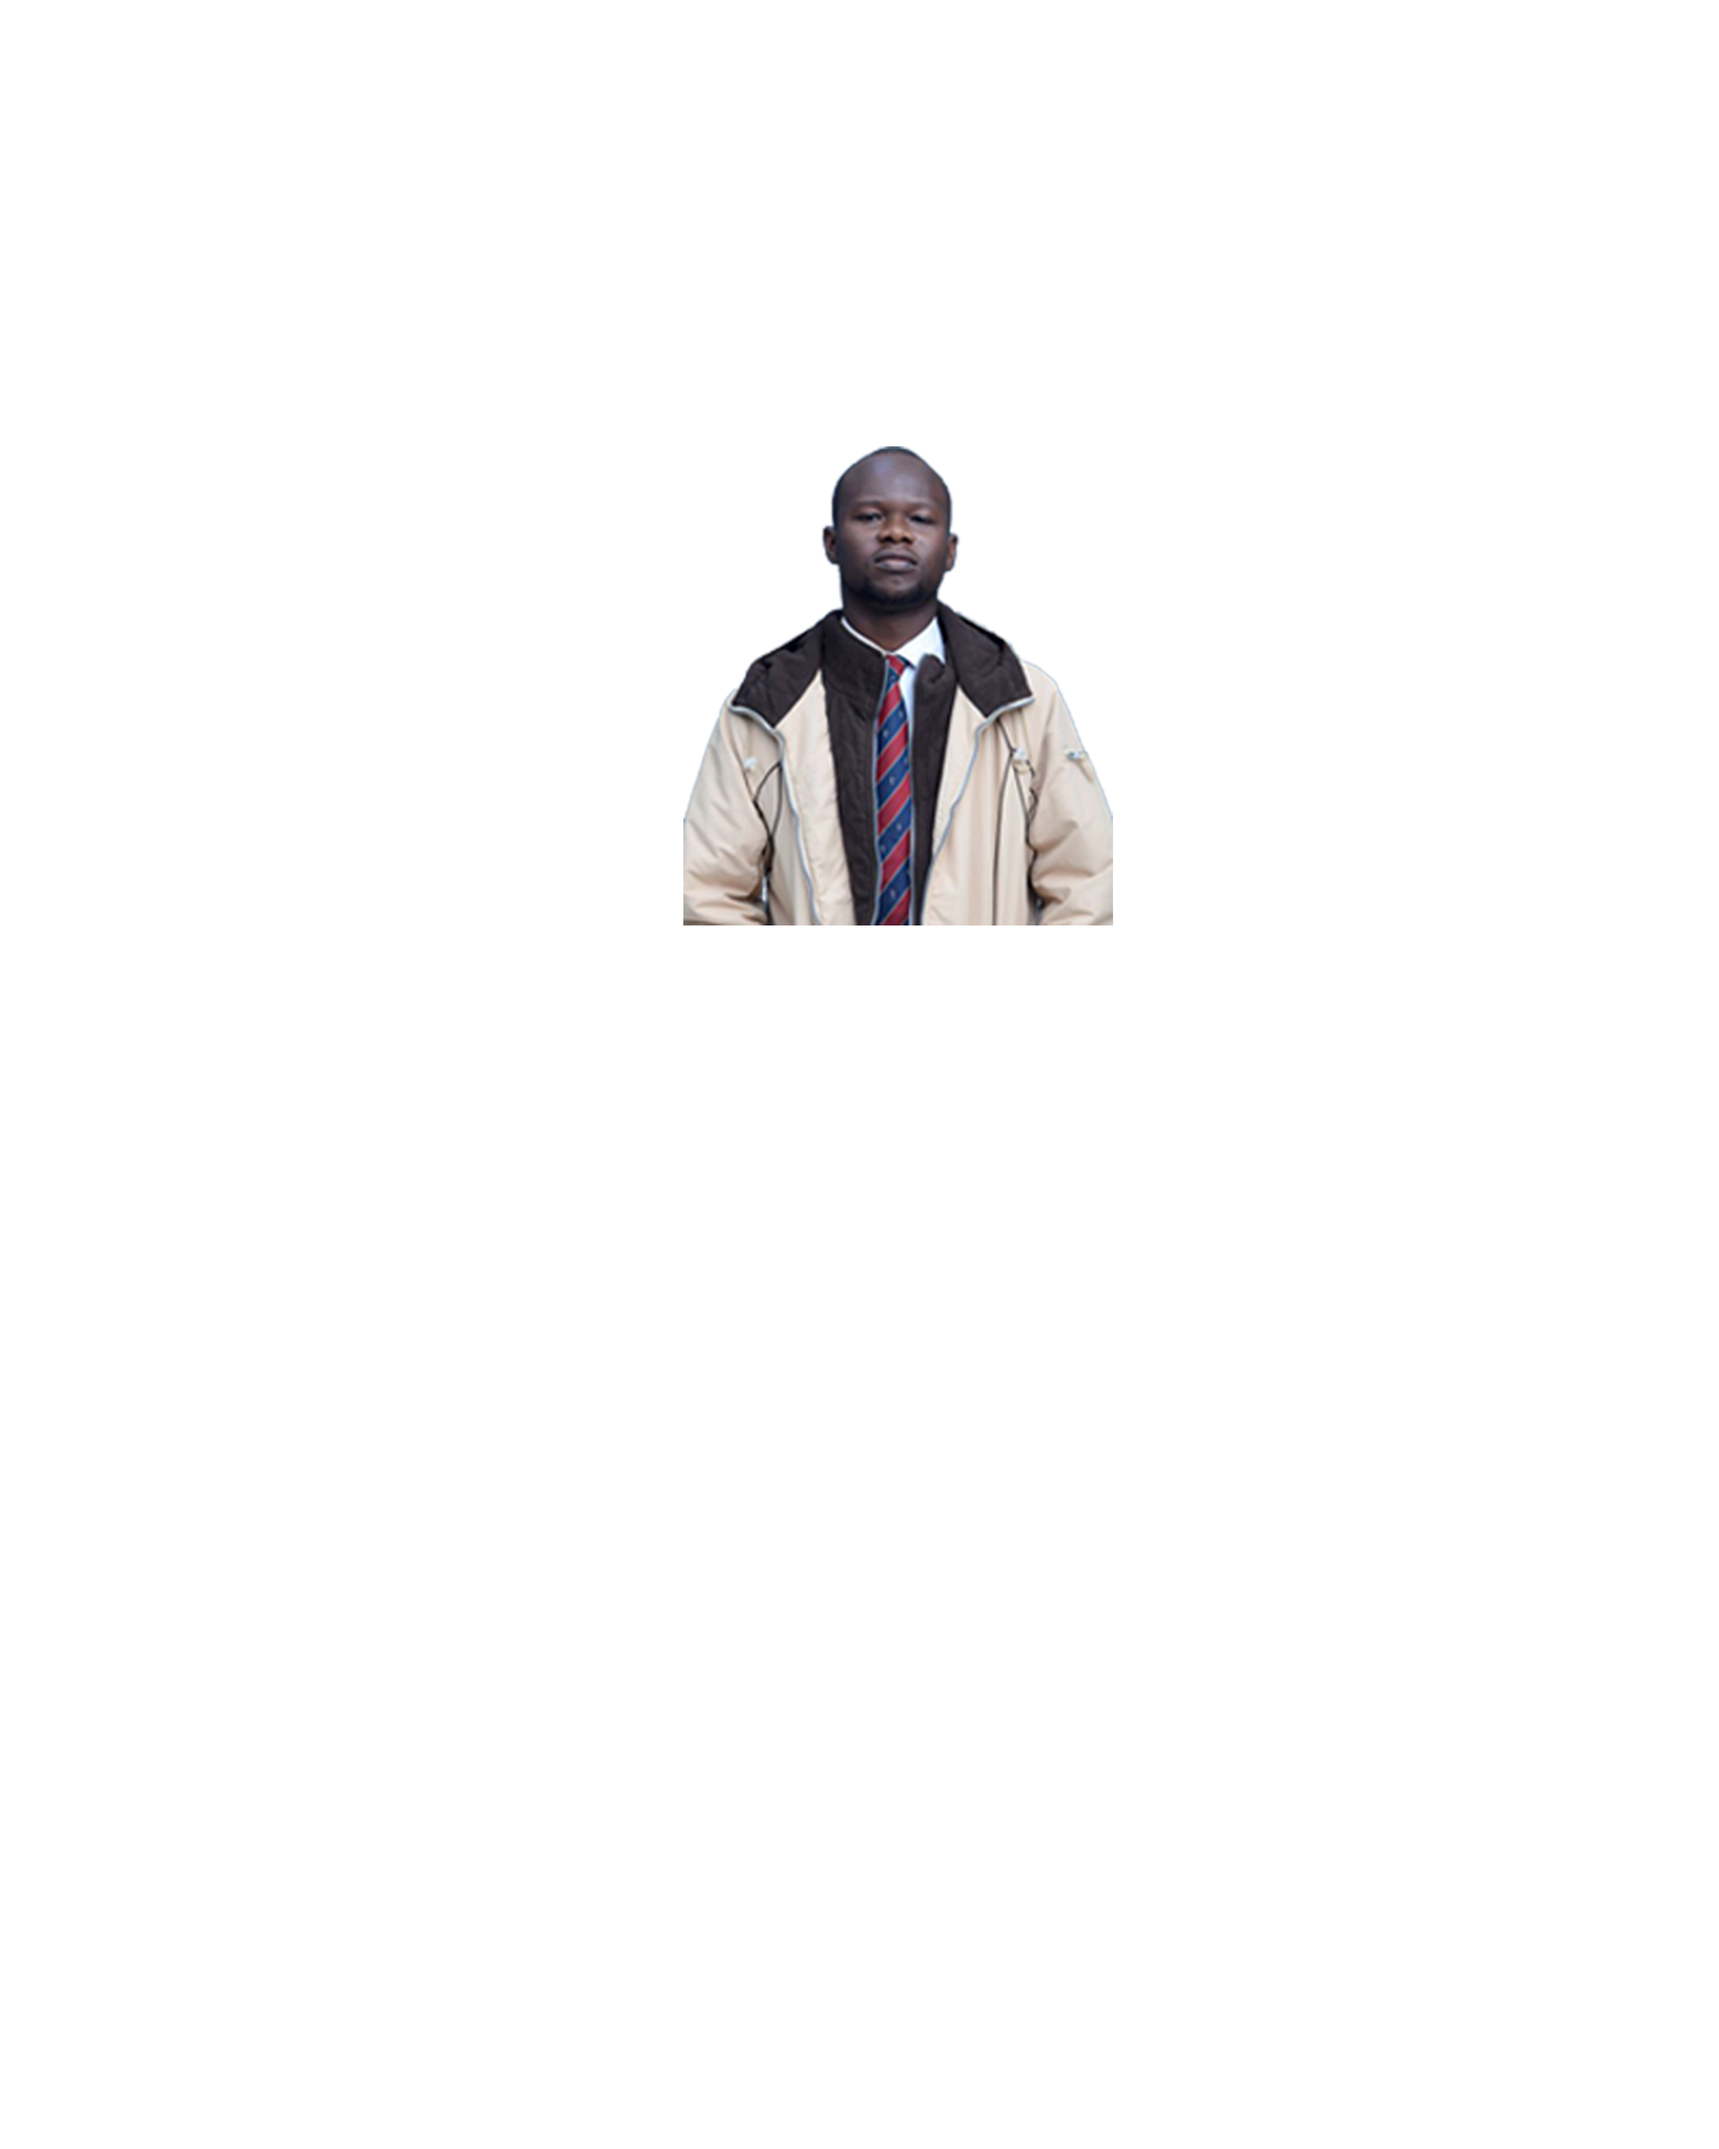
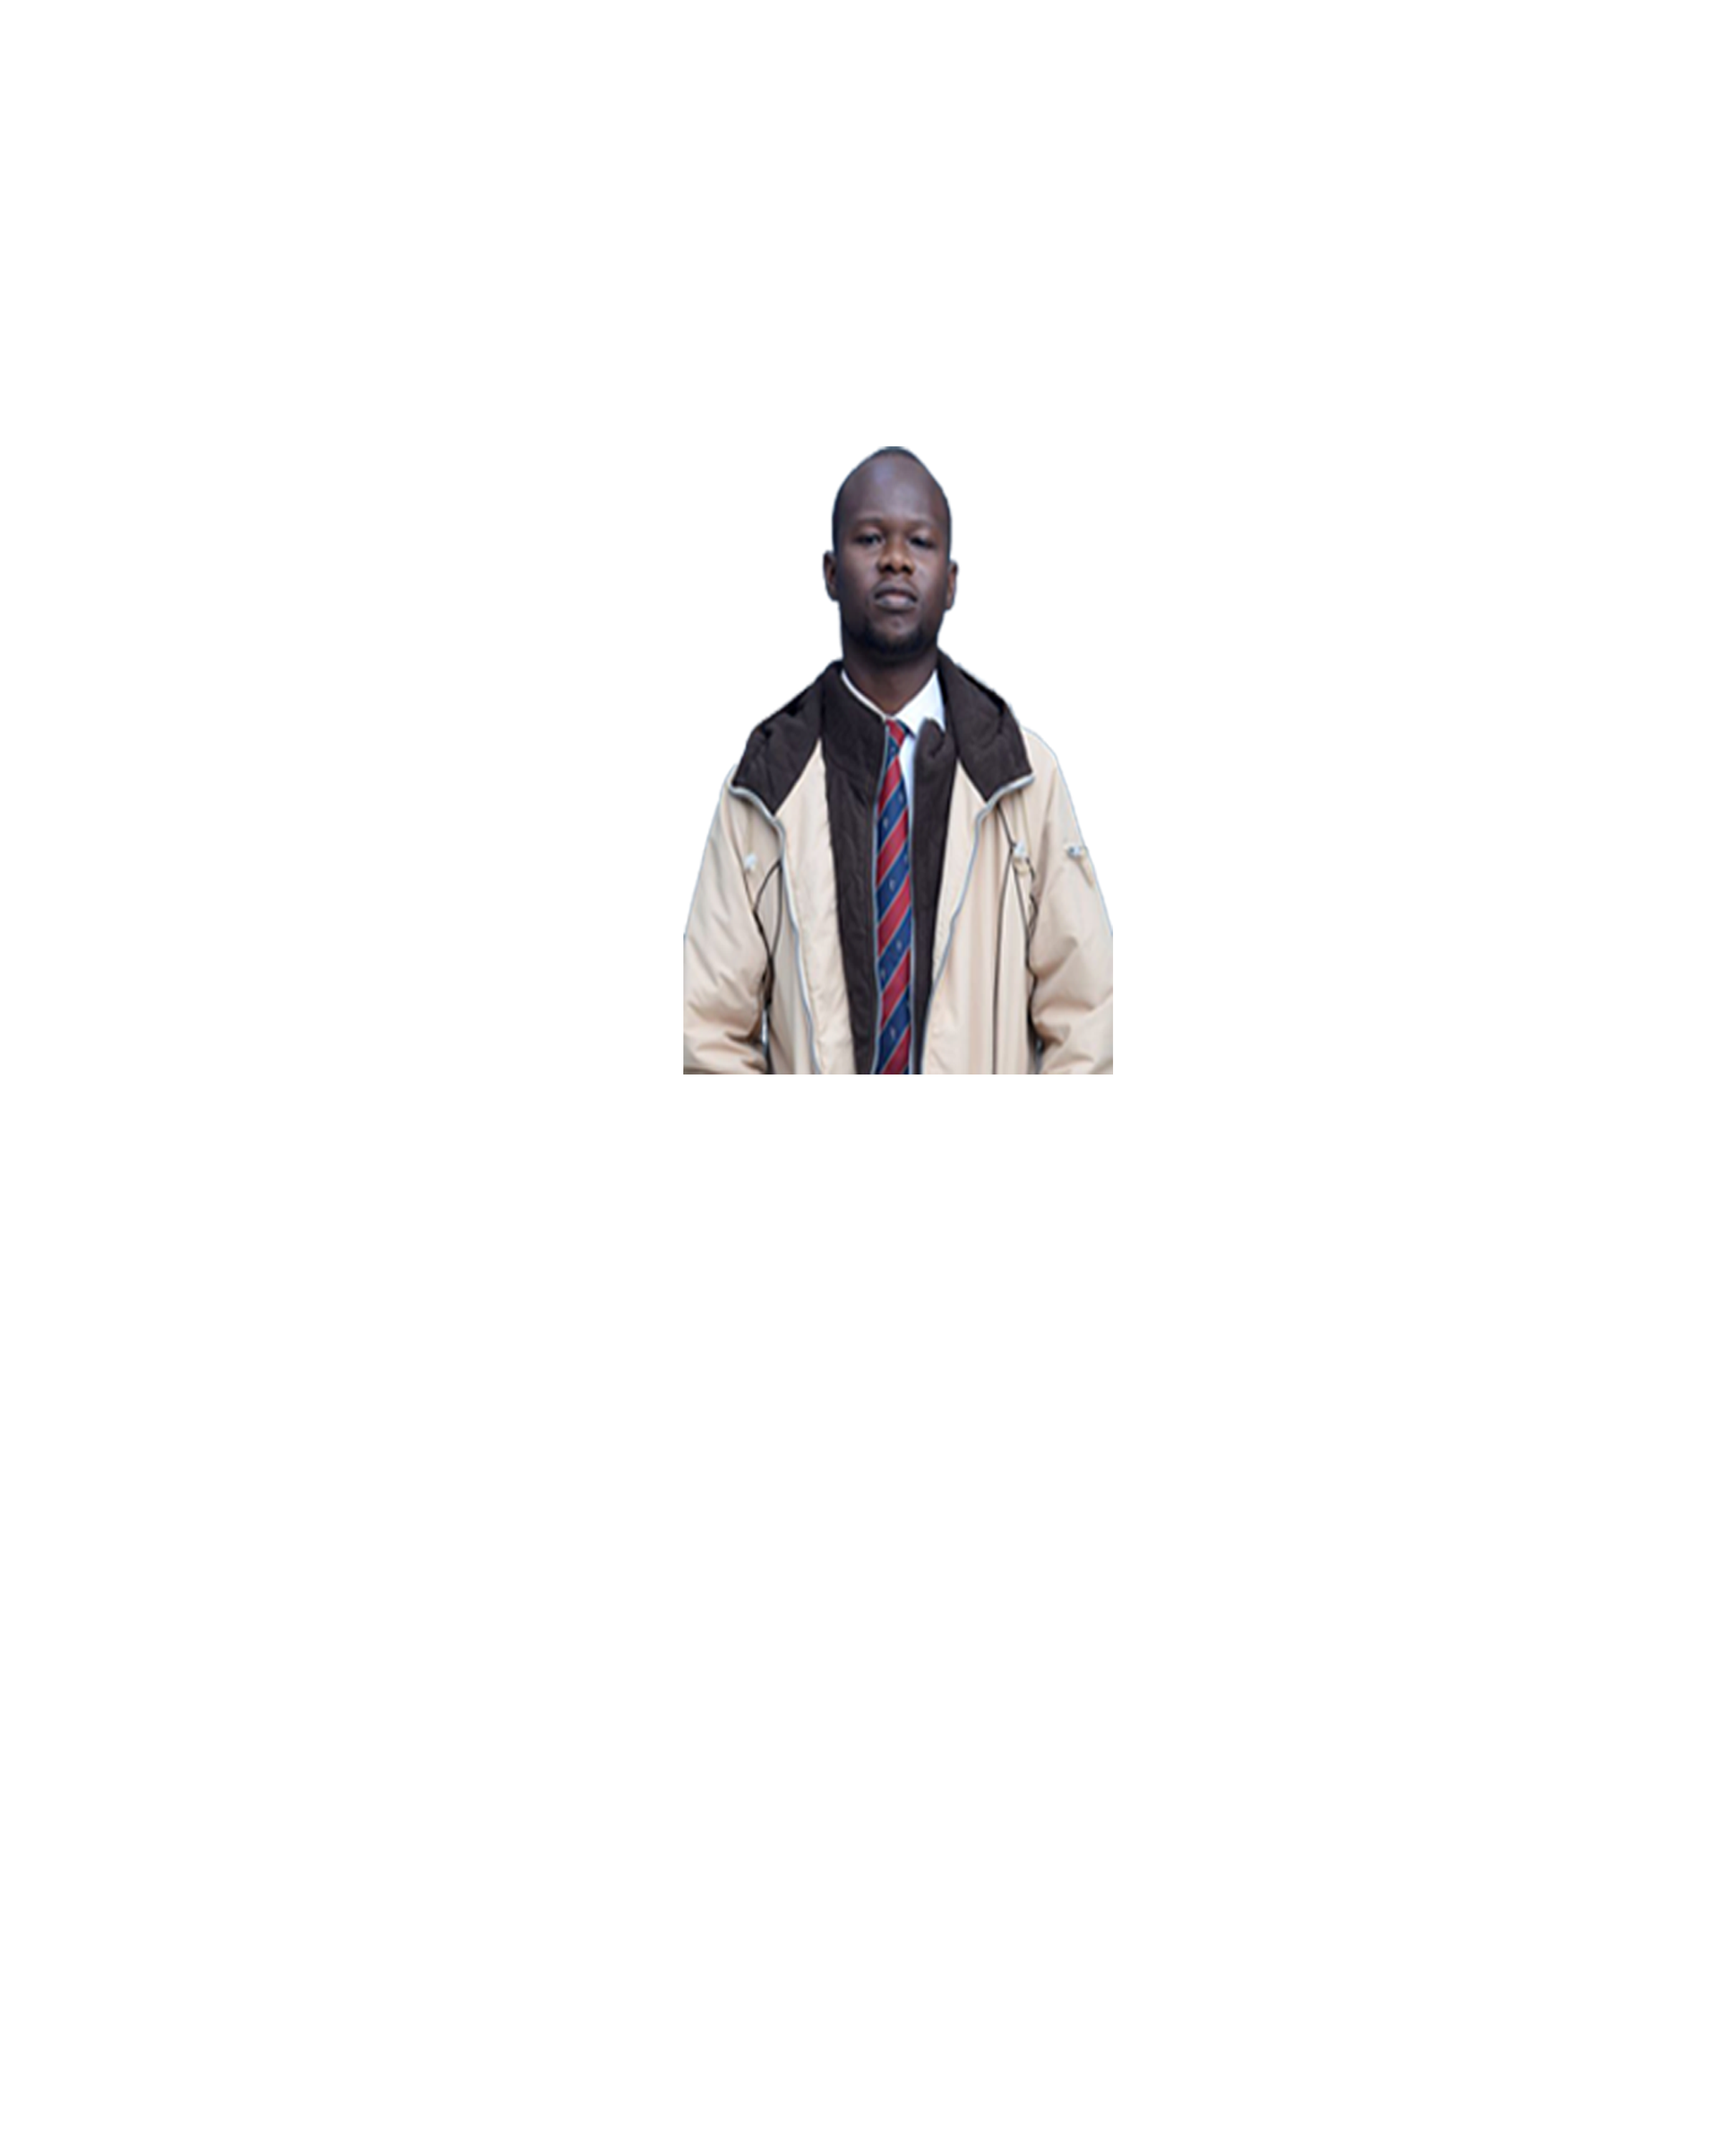
extended image and text position

Changed region(s): [[0.375, 0.217, 0.6562, 0.527]]

diff --git a/style.css b/style.css
@@ -373,7 +373,7 @@ footer{
     }
 }
 
-@media (max-width:575px){
+@media (max-width:475px){
     .portfolio-image{
         display:none;
     }
@@ -382,15 +382,15 @@ footer{
         background-repeat: no-repeat;
         background-size: 100%;
         width:100%;
-        background-position-x: -130px;
-        background-position-y: -80px;
+        background-position-x: -125px;
+        background-position-y: -90px;
     }
     .head > img {
         height:100%;
     }
     .intro h1, .intro h3{
         display: block;
-        margin-left:10rem;
+        margin-left:8rem;
     }
     .intro button{
         margin-top: -0.3rem;
